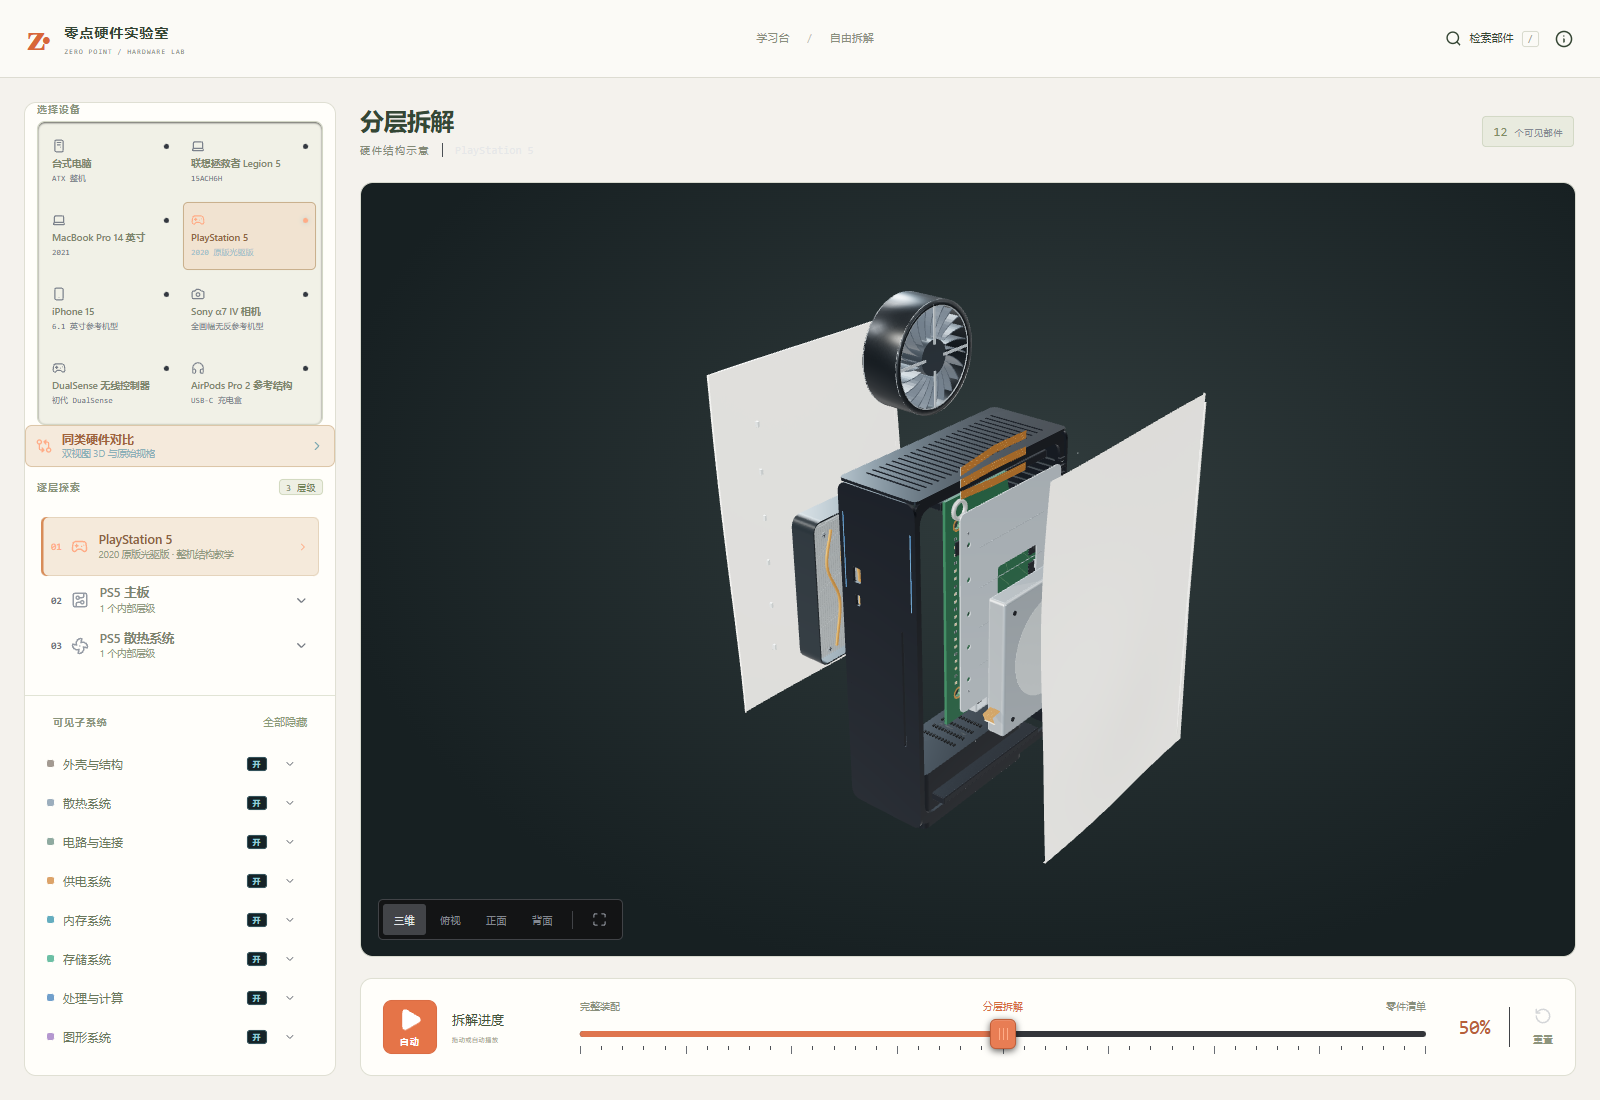
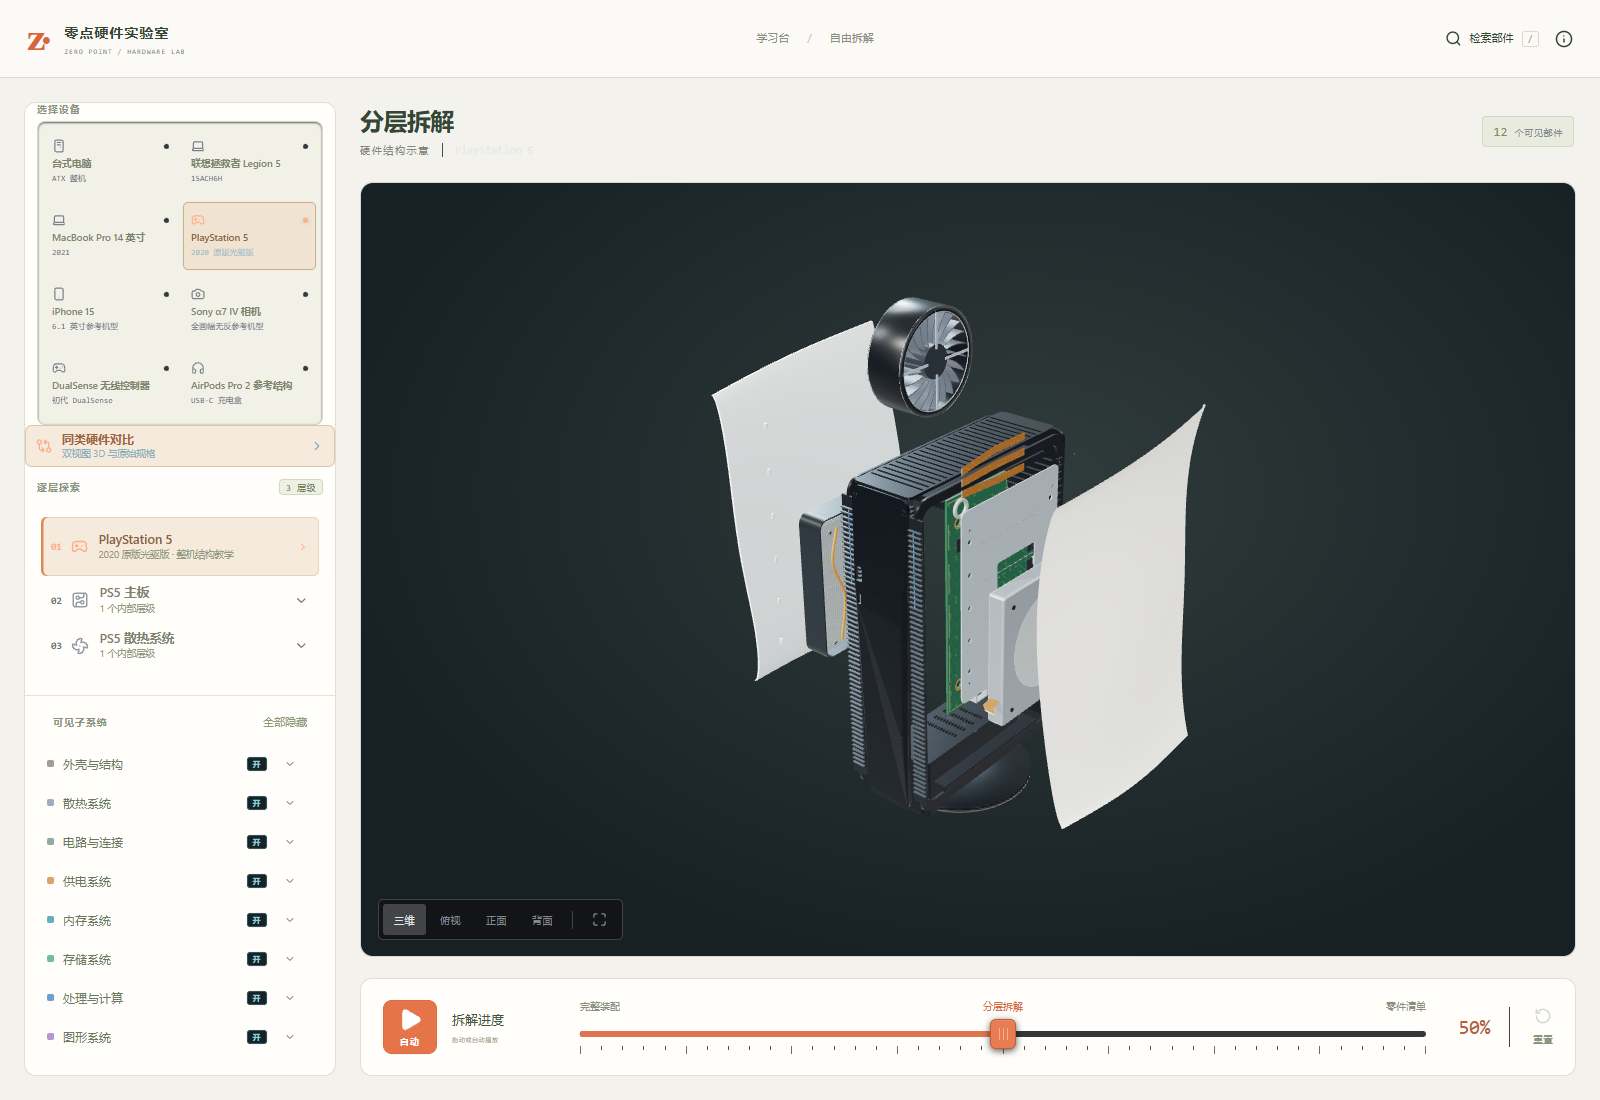
fix: refine package construction, camera visibility and enclosure clearances

Changed region(s): [[0.4375, 0.2473, 0.75, 0.7727], [0.7188, 0.6491, 0.75, 0.68]]

diff --git a/lib/digital/geometry.ts b/lib/digital/geometry.ts
@@ -193,14 +193,45 @@ export function detailedGeometry(
     );
   };
   const chip = (size: Vec3, pos: Vec3, label = '', parent = g) => {
-    put(box(size, ink, 0.12), pos, parent);
-    for (const x of [-size[0] / 2, size[0] / 2])
-      for (let i = 0; i < 6; i++)
-        put(
-          box([0.35, 0.2, 0.35], silver, 0.65),
-          [pos[0] + x, pos[1] - 0.1, pos[2] + ((i - 2.5) * size[2]) / 7],
-          parent,
+    // Mould compound over a thin package substrate; no invented gull-wing
+    // leads on memory/SoC packages. The underside pad grid is representative,
+    // not a claimed package ball count or electrical pin map.
+    put(
+      box([size[0], size[1] * 0.16, size[2]], '#35463e', 0.18),
+      [pos[0], pos[1] - size[1] * 0.42, pos[2]],
+      parent,
+    );
+    put(
+      box([size[0] * 0.96, size[1] * 0.84, size[2] * 0.96], ink, 0.08),
+      [pos[0], pos[1] + size[1] * 0.08, pos[2]],
+      parent,
+    );
+    const pads = new T.InstancedMesh(
+      new T.SphereGeometry(Math.min(0.3, size[0] * 0.025), 8, 6),
+      mat(silver, 0.72, 0.33),
+      64,
+    );
+    for (let row = 0; row < 8; row++)
+      for (let col = 0; col < 8; col++)
+        pads.setMatrixAt(
+          row * 8 + col,
+          new T.Matrix4().makeTranslation(
+            pos[0] + (col / 7 - 0.5) * size[0] * 0.82,
+            pos[1] - size[1] / 2,
+            pos[2] + (row / 7 - 0.5) * size[2] * 0.82,
+          ),
         );
+    pads.instanceMatrix.needsUpdate = true;
+    parent.add(pads);
+    put(
+      disk(Math.min(0.45, size[0] * 0.04), 0.025, '#77817e'),
+      [
+        pos[0] - size[0] * 0.37,
+        pos[1] + size[1] / 2 + 0.03,
+        pos[2] - size[2] * 0.35,
+      ],
+      parent,
+    );
     if (label)
       text(
         label,
@@ -556,23 +587,36 @@ export function detailedGeometry(
           ? 11 *
             Math.exp(-Math.pow((y + 60) / 105, 2) - Math.pow((z - 30) / 95, 2))
           : 0;
-      const taper = 0.91 + 0.09 * Math.cos((y / h) * Math.PI * 2);
+      const taper = 0.96 + 0.04 * Math.cos((y / h) * Math.PI * 2);
       const sweep = 12 * Math.sin((y / h) * Math.PI);
       a.setXYZ(
         i,
         (id === 'left-cover' ? -1 : 1) * (flare + bulge),
-        y - 20 * Math.pow(Math.abs(y) / (h / 2), 9) * (z / d + 0.5),
+        y -
+          Math.sign(y) *
+            20 *
+            Math.pow(Math.abs(y) / (h / 2), 9) *
+            (z / d + 0.5),
         z * taper + sweep,
       );
     }
+    const reverseFaces = (geometry: T.BufferGeometry) => {
+      const index = geometry.getIndex()!;
+      for (let i = 0; i < index.count; i += 3) {
+        const b = index.getX(i + 1);
+        index.setX(i + 1, index.getX(i + 2));
+        index.setX(i + 2, b);
+      }
+    };
+    if (id === 'right-cover') reverseFaces(geo);
     geo.computeVertexNormals();
     const m = mat(part.color, 0.05, 0.62).clone();
-    m.side = T.DoubleSide;
     put(new T.Mesh(geo, m));
     const inner = geo.clone();
     const vertices = inner.getAttribute('position');
     for (let i = 0; i < vertices.count; i++)
       vertices.setX(i, vertices.getX(i) + (id === 'left-cover' ? 2.6 : -2.6));
+    reverseFaces(inner);
     inner.computeVertexNormals();
     put(new T.Mesh(inner, mat('#cdd2d1', 0.05, 0.65)));
     const edgeIndices: number[] = [];
@@ -640,6 +684,19 @@ export function detailedGeometry(
     }
     front.geometry.computeVertexNormals();
     put(front, [0, 0, d / 2]);
+    for (const side of [-1, 1]) {
+      put(box([17, h * 0.91, 2.5], '#12181d', 0.05, 1), [
+        side * 43,
+        0,
+        d / 2 - 1,
+      ]);
+      for (let i = 0; i < 56; i++)
+        put(box([16, 1.1, 4], '#333b40', 0.15, 0.2), [
+          side * 43,
+          (i - 27.5) * 5.5,
+          d / 2 + 1,
+        ]);
+    }
     const vents: T.Path[] = [];
     for (let i = 0; i < 37; i++)
       vents.push(rectHole(0, (i - 18) * 8, w * 0.72, 2.2, 0.8));
@@ -652,7 +709,8 @@ export function detailedGeometry(
     put(plate(w * 0.76, 3, d, '#12191f', 7, roofVents), [0, h / 2 + 1.5, 0]);
     for (const x of [-w * 0.44, w * 0.44])
       put(box([1.1, 80, 1], '#416e9b'), [x, 110, d / 2 + 1.6]);
-    put(disk(80, 8, '#171d23', 15), [0, -h / 2 - 8, 0]);
+    put(disk(80, 8, '#171d23', 15), [0, -h / 2 - 22, 0]);
+    put(box([40, 24, 65], '#171d23', 0.05, 3), [0, -h / 2 - 10, 0]);
     for (const x of [-31, 31])
       for (let i = 0; i < 22; i++)
         put(box([5, 2, 13], '#12191f'), [x, 75 + i * 4.5, d / 2 - 4]);
@@ -775,6 +833,23 @@ export function detailedGeometry(
       ]),
       [0, -2, 0],
     );
+  } else if (level === 'phonecamera' && id === 'carrier') {
+    put(
+      plate(31, 1.2, 31, silver, 2, [
+        circleHole(-7, -7, 6.1),
+        circleHole(7, 7, 7.1),
+      ]),
+      [0, 0.7, 0],
+    );
+    put(plate(31, 1, 31, '#26312f', 2), [0, -1, 0]);
+    for (const [x, z] of [
+      [-13, -13],
+      [13, -13],
+      [-13, 13],
+      [13, 13],
+    ])
+      screw([x, 1.5, z], 0.65);
+    connector([7, 0.8, 3], [0, -1, 17]);
   } else if (level === 'phone' && id === 'truedepth') {
     put(plate(w, h, d, silver, 1));
     for (const x of [-8, 0, 8]) {
@@ -1083,6 +1158,26 @@ export function detailedGeometry(
       }
       case 'lens':
         lens(Math.min(w, d) / 2, h);
+        if (level === 'phonecamera') {
+          put(
+            plate(w, 1, d, silver, 1, [
+              circleHole(0, 0, Math.min(w, d) * 0.42),
+            ]),
+            [0, -h / 2 + 0.5, 0],
+          );
+          for (const x of [-w * 0.43, w * 0.43])
+            put(box([0.8, h * 0.5, d * 0.7], '#333c40', 0.2, 0.1), [
+              x,
+              -h * 0.12,
+              0,
+            ]);
+          for (let i = 0; i < 6; i++)
+            put(box([0.18, 0.4, d * 0.55], copper, 0.6), [
+              -w * 0.32 + i * w * 0.055,
+              -h / 2 + 0.2,
+              0,
+            ]);
+        }
         break;
       case 'ring':
         put(disk(Math.min(w, d) / 2, h, part.color, Math.min(w, d) * 0.34));

diff --git a/tests/digital.test.ts b/tests/digital.test.ts
@@ -220,3 +220,21 @@ await test('board details remain attached to their selectable PCB and batches ha
     assert.ok(bodies>40,`${level} must contain actual support geometry`);
   }
 });
+
+await test('the wide PS5 stand stays below its side covers instead of piercing the outer skin',()=>{
+  const model=models.get('ps5')!;
+  const frame=model.pieces.find(piece=>piece.concept==='ps5-frame')!;
+  model.root.updateMatrixWorld(true);
+  const point=new T.Vector3();let standVertices=0;
+  frame.object.traverse(object=>{
+    if(!(object instanceof T.Mesh))return;
+    const positions=object.geometry.getAttribute('position');
+    for(let i=0;i<positions.count;i++){
+      point.fromBufferAttribute(positions,i).applyMatrix4(object.matrixWorld);
+      if(Math.abs(point.x)<=55/40)continue;
+      standVertices++;
+      assert.ok(point.y < -195/40,'wide foot must clear the full cover height');
+    }
+  });
+  assert.ok(standVertices>0);
+});

diff --git a/lib/digital/refinements.ts b/lib/digital/refinements.ts
@@ -247,7 +247,11 @@ export function refineDigitalDefinitions(definitions: Definition[]) {
       '按官方背部内部视图，矩形软包电池位于中下部左侧；外侧包含封边、引出片与易拉胶条。',
   });
   edit('phone', 'board', { size: [18, 3, 78], pos: [22, -0.15, -12] });
-  edit('phone', 'camera', { pos: [-17, 0, -50], size: [30, 7, 30] });
+  edit('phone', 'camera', {
+    pos: [-17, 0, -50],
+    size: [30, 7, 30],
+    delta: [-25, 20, -20],
+  });
   edit('phone', 'coil', {
     size: [42, 0.3, 42],
     pos: [-5, 2.3, 12],

diff --git a/README.md b/README.md
@@ -27,7 +27,11 @@
 
 ## 结构重建更新
 
-新增五类设备已按实机拆解、Apple 内部视图及 Sony ILCE-7M4 分解资料重做主要结构：异形 PCB、双面封装、薄壁开孔壳体、柔性排线与连接器、独立执行器、托盘及代表性紧固件。PS5 主板细分 8 颗 GDDR6 与两面共 6 颗 NAND；手机纠正底部组件布局，补齐 TrueDepth 与接口连接；手柄拆分左右扳机的电机、蜗杆与齿轮。
+本轮继续以既有电脑、笔记本为对照，重做外壳曲面与内部可视细节：手柄使用有内外壁和贯通输入开孔的连续握柄壳，黑色中央面板贴合曲面；相机使用带内腔的立体握把和包围板件的侧壁；耳机声腔与短柄连续过渡，盒体保留薄壁圆角。
+
+电路板有双面板面、铜边、过孔、丝印与分区支持器件；主要芯片增加封装基板、塑封体和底部焊点示意，避免将 BGA 类封装画成侧面引脚芯片。PS5 继续调整侧盖收腰、顶部外翻与进气边界，手机缩短背盖展开距离，方便观察主体。
+
+五类设备参考实机拆解、Apple 内部视图及 Sony ILCE-7M4 分解资料，包含：异形 PCB、双面封装、薄壁开孔壳体、柔性排线与连接器、独立执行器、托盘及代表性紧固件。PS5 主板细分 8 颗 GDDR6 与两面共 6 颗 NAND；手机纠正底部组件布局，补齐 TrueDepth 与接口连接；手柄拆分左右扳机的电机、蜗杆与齿轮。
 
 几何由项目独立编写，不直接使用拆解照片当贴图。建模依据、已核对事实与未测绘部分见[重建记录](docs/DIGITAL-DEVICES.md)。
 
@@ -43,15 +47,23 @@
 ![PS5 分层拆解](docs/screenshots/ps5-dissection.png)
 
 <details>
-<summary>更多预览：PS5 主板、手机、相机与手柄</summary>
+<summary>更多预览：PS5、手机、相机、手柄与耳机</summary>
+
+![PS5 曲面侧盖与底座](docs/screenshots/ps5-assembled.png)
 
 ![PS5 主板双面封装与屏蔽结构](docs/screenshots/ps5-board-detail.png)
+
+![手机双摄、逻辑板、电池与背盖分层](docs/screenshots/phone-dissection.png)
 
 ![手机中文部件说明](docs/screenshots/phone-chinese-detail.png)
 
 ![相机拆解](docs/screenshots/camera-dissection.png)
 
+![手柄曲面外壳与输入部件](docs/screenshots/gamepad-assembled.png)
+
 ![手柄机构拆解](docs/screenshots/gamepad-dissection.png)
+
+![耳机薄壁壳体与内部总成](docs/screenshots/earbuds-dissection.png)
 
 </details>
 
@@ -102,7 +114,7 @@ npm run build
 npm run size
 ```
 
-已通过 **124 项测试**。另提供浏览器验收，覆盖学习流程、进度持久化、新设备拆解、部件交互与移动布局。先运行生产预览，再在另一个终端执行：
+已通过 **127 项测试**。另提供浏览器验收，覆盖学习流程、进度持久化、新设备拆解、部件交互与移动布局。先运行生产预览，再在另一个终端执行：
 
 ```bash
 node scripts/learning-smoke.mjs

diff --git a/docs/VALIDATION.md b/docs/VALIDATION.md
@@ -2,11 +2,13 @@
 
 日期：2026-10-19（Asia/Shanghai）。环境：Windows，Node.js v24.20.0，npm 11.19.0。
 
-## 当前版本：拆解资料驱动的模型重建
+## 当前版本：曲面、封装与 PCB 细节深化
 
-- 单元与几何检查：124 / 124 通过，0 失败、0 跳过；lint 与 TypeScript 通过。
+- 单元与几何检查：127 / 127 通过，0 失败、0 跳过；lint 与 TypeScript 通过。
 - 构建与入口预算通过：入口约 72.3 KiB gzip，仍低于未修改的 220 KiB 预算。Three.js 运行时分块仍有体积提示，没有通过放宽预算掩盖。
-- 新增结构回归：PS5 双面封装向各自板面外侧展开、主要组件间隔、风扇包络、iPhone 底部组件位置和背盖下排线、耳机盒盖间隙、线段与网格资源释放。
+- 本轮最终复核另外覆盖手机与双摄 0% / 50% / 100%，并修正 PS5 侧盖面向、底座穿入外盖的问题；新增底座宽边低于侧盖的几何回归。
+- 本轮增加：手柄壳体内外壁与壁厚、贯通摇杆孔、曲面中央面板连续性；PCB 支持器件实例变换保持有效。使用与 Legion 相同的 1600 × 1100 视口检查装配和拆解画面。
+- 原有结构回归：PS5 双面封装向各自板面外侧展开、主要组件间隔、风扇包络、iPhone 底部组件位置和背盖下排线、耳机盒盖间隙、线段与网格资源释放。
 - 浏览器流程：14 个数码层级 × 3 姿态、5 条新路径 / 15 个实验、部件资料/隐藏/恢复、层级进入/返回、分类与移动端检查通过，无 pageerror。原有学习流程（内存课程、持久化、错误重试、复习和重置）也通过。
 - 查看装配与拆解截图后继续收口了 PS5 外盖、框架与风扇位置，手柄前缘和摇杆，手机开盖遮挡，相机握柄及板件朝向。
 - 当前为 8 台参考设备、82 层级、741 条资料。143 个数码层级组件定义仍是主要总成与细分部件；没有宣称完整复现每一颗微型无源元件。

diff --git a/docs/DIGITAL-DEVICES.md b/docs/DIGITAL-DEVICES.md
@@ -47,3 +47,11 @@ node scripts/learning-smoke.mjs
 几何检查包括父子实际比例、动画前后变换、PS5 内部组件装配间隔与风扇包络、双面封装数量、手机的关键位置与背盖下排线、耳机与盒盖间隙。非凸主板按各实际子组件检查装配区域，避免用整个主板的包围盒填满风扇避让空间。
 
 浏览器验收覆盖 14 层级 × 3 姿态、5 条新增课程、选择/隐藏/恢复、父子深入、中文说明、分类和移动端。截图与验收不是公差测绘、物理声学仿真或全部芯片的逐一鉴定。
+
+## 曲面与板面深化（2026-10-19）
+
+- 新增 molded-shells.ts：手柄前后薄壁壳体、贯通开孔、相机握把内腔、耳机声学头与短柄、圆角充电盒。隐式曲面提取为静态网格；手柄黑色面板单独三角化并贴合表面，避免薄层采样缺面。曲面法线按原始场计算，避免逐三角形反射条纹。
+- 新增 board-detail.ts：板面图样按原生毫米归一化，沿异形轮廓裁切；双面支持器件通过实例绘制，避开主要封装和开孔。支持件跟随所属 PCB 选择、拆解与释放资源。
+- 芯片外观区分基板、塑封、定位点和底部焊点；焊点阵列只表达封装结构，不宣称球数、引脚分配或真实网络。
+- PS5 外盖调整外翻与前后收束，补充进气栅格及底座；相机增加封闭侧壁、控制拨轮和可透视的镜片表面；手机保持 Apple 内部视图朝向并收紧开盖距离。
+- 不新增虚构芯片型号或微型器件目录 ID，课程与分享链接保持有效。密集支持件仍是示意布局；这些细节不改变上述精度边界。

diff --git a/ARCHITECTURE.md b/ARCHITECTURE.md
@@ -672,3 +672,5 @@ as part of the task rather than a follow-up.
 ### Teardown-based geometry revision
 
 `lib/digital/refinements.ts` applies photo-referenced layouts while preserving existing component IDs, saved lessons and deep links. `lib/digital/geometry.ts` builds native-millimetre shells, apertures, board outlines, connectors, flex, dual-sided packages and mechanical modules. Native transforms stay below the stage-owned root. There are 143 selectable component definitions across the fourteen digital scales, plus five root catalogue entries. Internal fasteners/passives remain part of their named assembly, rather than fictitious independently identified electronic parts.
+
+Moulded digital enclosures now use static field-extracted surfaces (molded-shells.ts), with independently owned geometry clones and analytic field normals. The controller fascia uses a pierced, subdivided contour projected onto its shell, so a thin overlay cannot disappear between field samples. board-detail.ts maps board artwork in native millimetres and batches representative support devices while keeping package and aperture keepouts. These batches inherit their owning PCB's picking and motion identity.

diff --git a/docs/DEVELOPMENT.md b/docs/DEVELOPMENT.md
@@ -79,3 +79,11 @@
 4. [x] 通过画面检查继续修正壳体遮挡、外盖边界、手柄前缘和耳机盒盖间隙；补充线段资源释放及回归。
 5. [x] 目录变为 741 条资料；124 项测试通过，类型、lint、构建、体积预算通过。详细验证与精度边界见 VALIDATION.md 和 DIGITAL-DEVICES.md。
 - [x] 最终修正双面主板展开方向与默认视角；新增板面穿越回归，124 项测试通过，0% / 50% / 100% 主板浏览器检查通过。
+
+## 第五轮：对照电脑与笔记本的建模深化
+
+1. [x] 用相同视口查看既有 Legion 与五类新增设备，确认曲面、封闭装配及板面细节差距。
+2. [x] 重建手柄双壳、连续黑色面板、相机握把、耳机头柄及充电盒；原生毫米变换和总成选择保留。节点 63406d2。
+3. [x] 双面 PCB 图样、实例化分区支持器件、封装基板/塑封/焊点；调整 PS5 外盖与进气边界、相机侧壁、手机开盖距离。
+4. [x] 增加壳体内外壁、贯通摇杆孔、中央面板连续性、板上实例变换的回归检查。
+5. 当前节点的验证与画面记录见 VALIDATION.md，参考与近似范围见 DIGITAL-DEVICES.md。
